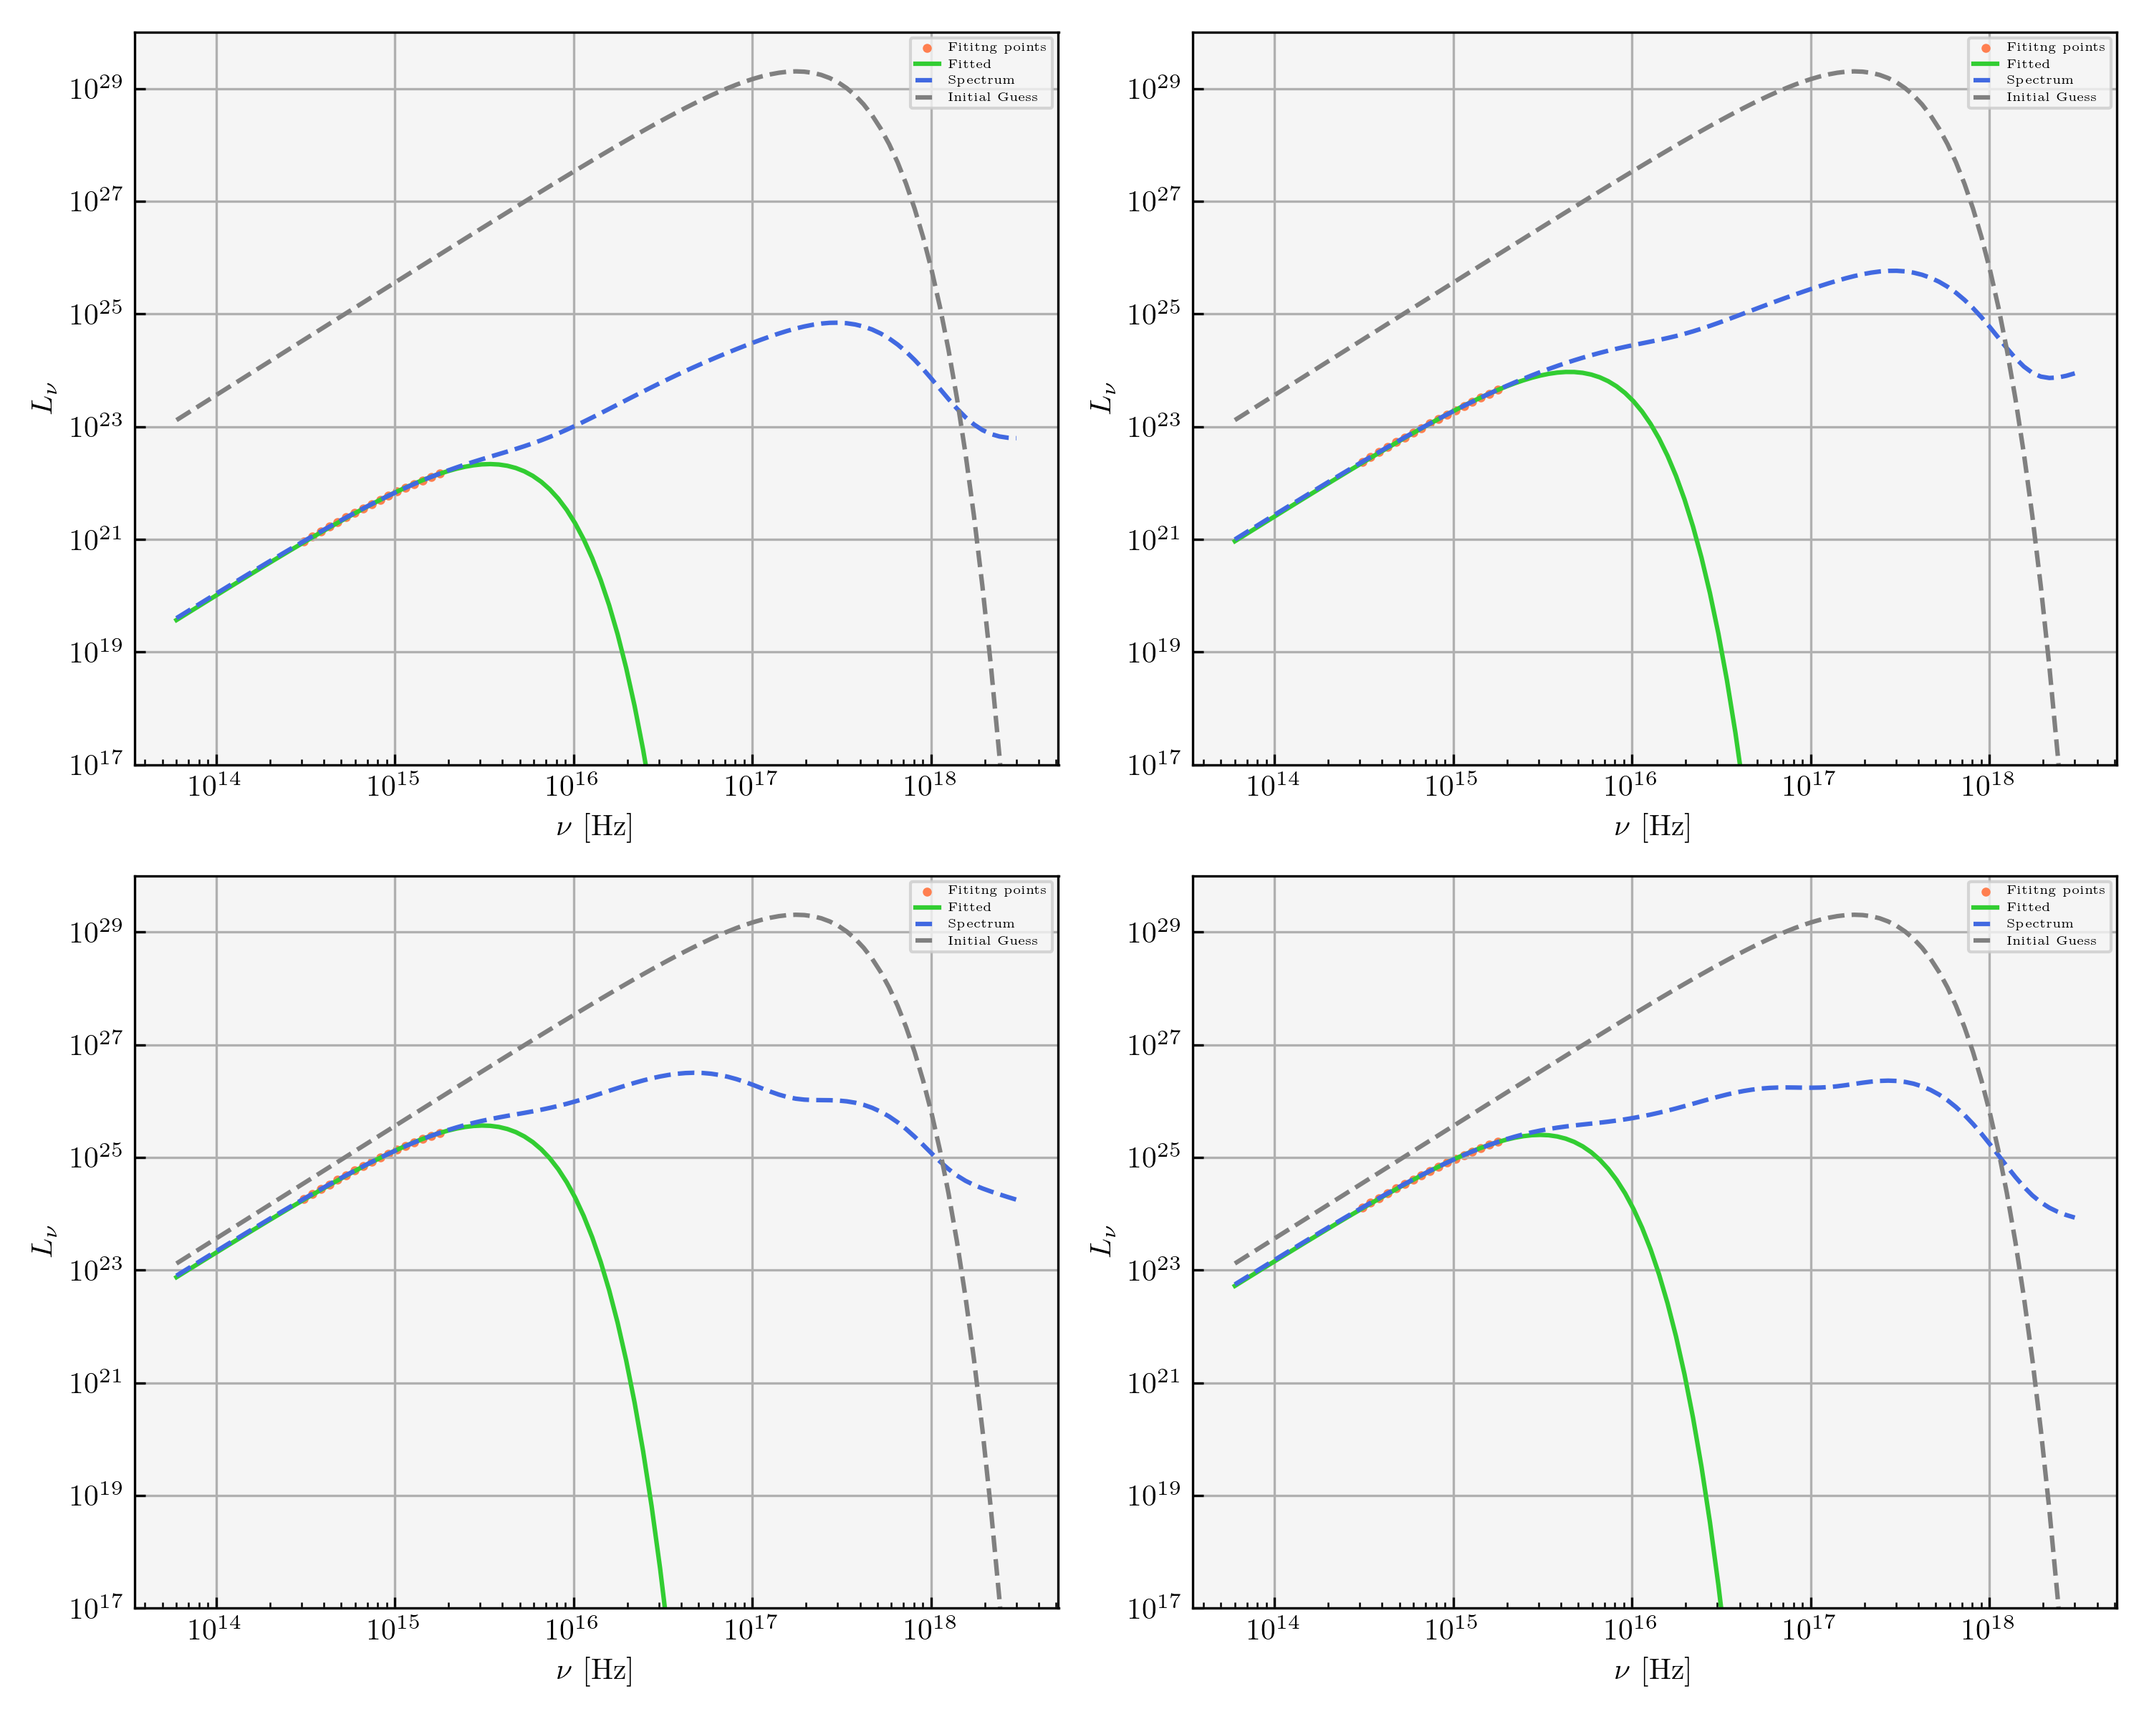
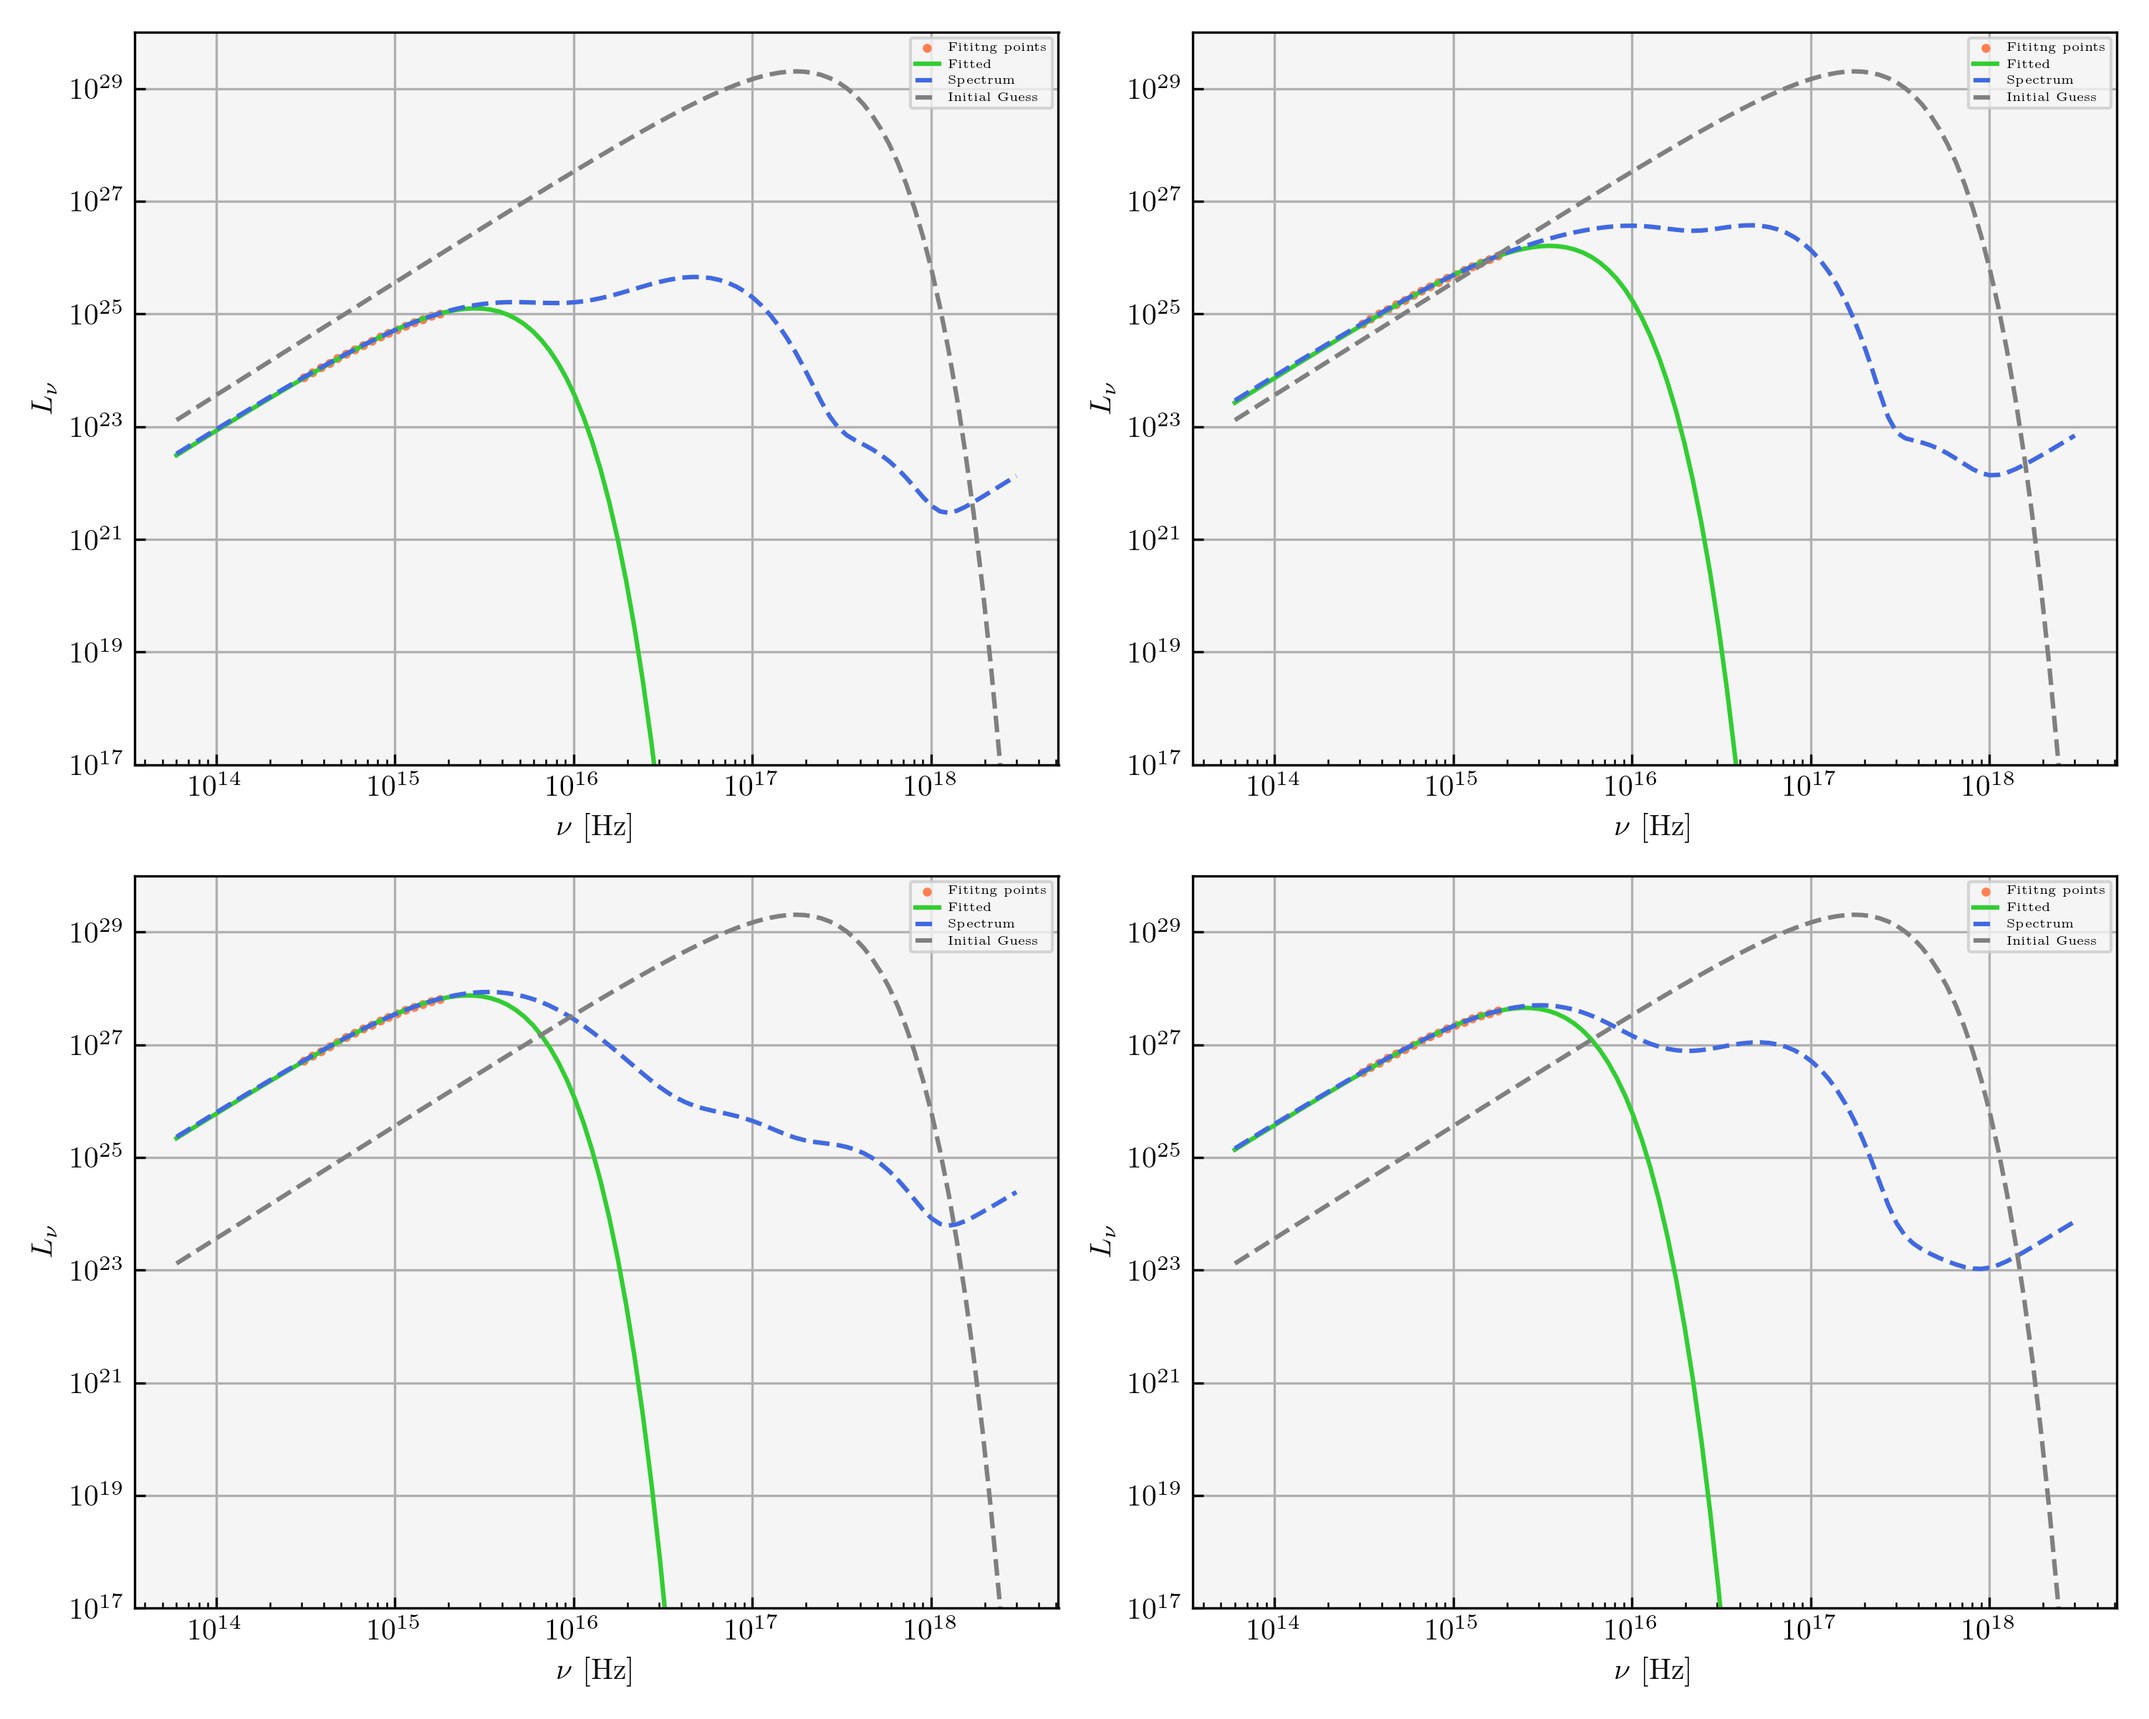
path works maybe?

diff --git a/src/Calculators/ray_cesare.py b/src/Calculators/ray_cesare.py
@@ -18,7 +18,7 @@ from astropy.coordinates import cartesian_to_spherical
 from src.Calculators.legion_of_casters import THROUPLE_S_CASTERS
 import matplotlib.pyplot as plt
 import matplotlib.colors as colors
-
+alice = True
 #%% Constants & Converter
 NSIDE = 4
 G = 6.6743e-11 # SI
@@ -44,14 +44,25 @@ def ray_maker(fix, m, num, select = False):
     Mbh = 10**m 
     Rt =  Mbh**(1/3) # Msol = 1, Rsol = 1
     
-    # Import
-    X = np.load( str(m) + '/'  + fix + '/CMx_' + fix + '.npy')
-    Y = np.load( str(m) + '/'  + fix + '/CMy_' + fix + '.npy')
-    Z = np.load( str(m) + '/'  + fix + '/CMz_' + fix + '.npy')
-    Mass = np.load( str(m) + '/'  + fix + '/Mass_' + fix + '.npy')
-    T = np.load( str(m) + '/'  + fix + '/T_' + fix + '.npy')
-    Den = np.load( str(m) + '/'  + fix + '/Den_' + fix + '.npy')
-    Rad = np.load( str(m) + '/'  +fix + '/Rad_' + fix + '.npy')
+    if alice:
+        pre = '~/s3745597/data1/TDE/'
+        # Import
+        X = np.load(pre + str(m) + '/'  + fix + '/CMx_' + fix + '.npy')
+        Y = np.load( str(m) + '/'  + fix + '/CMy_' + fix + '.npy')
+        Z = np.load( str(m) + '/'  + fix + '/CMz_' + fix + '.npy')
+        Mass = np.load( str(m) + '/'  + fix + '/Mass_' + fix + '.npy')
+        T = np.load( str(m) + '/'  + fix + '/T_' + fix + '.npy')
+        Den = np.load( str(m) + '/'  + fix + '/Den_' + fix + '.npy')
+        Rad = np.load( str(m) + '/'  +fix + '/Rad_' + fix + '.npy')
+    else:
+        # Import
+        X = np.load( str(m) + '/'  + fix + '/CMx_' + fix + '.npy')
+        Y = np.load( str(m) + '/'  + fix + '/CMy_' + fix + '.npy')
+        Z = np.load( str(m) + '/'  + fix + '/CMz_' + fix + '.npy')
+        Mass = np.load( str(m) + '/'  + fix + '/Mass_' + fix + '.npy')
+        T = np.load( str(m) + '/'  + fix + '/T_' + fix + '.npy')
+        Den = np.load( str(m) + '/'  + fix + '/Den_' + fix + '.npy')
+        Rad = np.load( str(m) + '/'  +fix + '/Rad_' + fix + '.npy')
 
     # Convert Energy / Mass to Energy Density in CGS
     Rad *= Den 

diff --git a/src/Luminosity/fit.py b/src/Luminosity/fit.py
@@ -67,7 +67,9 @@ if __name__ == '__main__':
         temp = np.zeros(len(data))
         radius = np.zeros(len(data))
         Blue = np.zeros(len(data))
-        for i in range(len(data)):
+        
+        # NOTE: last 4 because we save on top all the time and should fix that
+        for i in range(len(data) - 4, len(data)):
             Lums = data[i] 
             # print(Lums)
             Lums_fit = Lums[freq_min_idx:freq_max_idx]
@@ -102,7 +104,7 @@ if __name__ == '__main__':
                 axs2.append(axs[i,j])
               
         for i, ax in enumerate(axs2):
-            Lums = data[i]
+            Lums = data[i + len(data) - 4] # NOTE: last 4 because we save on top all the time and should fix that
             Lums_fit = Lums[freq_min_idx:freq_max_idx]
             fit = curve_fit(tofit, fit_freqs, Lums_fit, p0 = (init_R, init_T))
             

diff --git a/src/Plotting/comparison_with_elad.py b/src/Plotting/comparison_with_elad.py
@@ -39,7 +39,7 @@ if plot_curves:
     # Our plot
     days = fld_data[0]
     days40 = np.multiply(days, 40)
-    plt.plot(days40, b, '--s', c='navy', markersize = 4, alpha = 0.8)
+    plt.plot(days40, b[len(b) - 4:], '--s', c='navy', markersize = 4, alpha = 0.8)
     plt.plot(days40, fld_data[1], '--o', c='maroon', markersize = 4, alpha = 0.8)
 
     plt.yscale('log')
